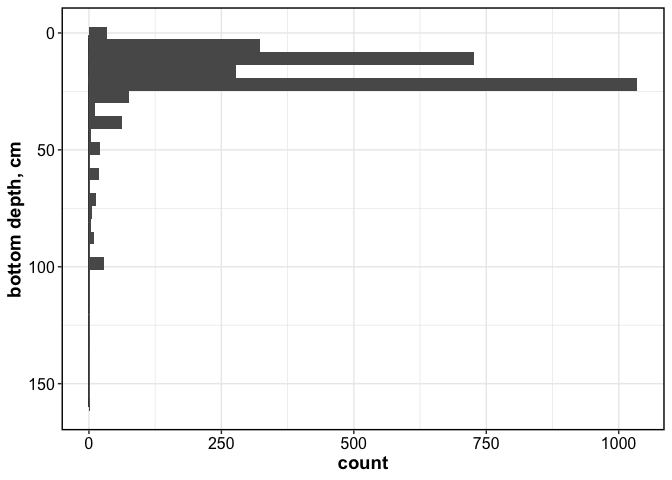
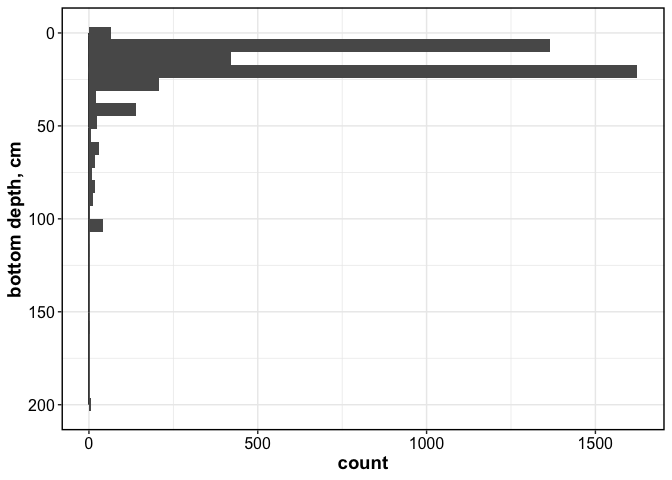
exploratory report - add fraction scheme

diff --git a/4-reports/a-report-exploratory.md b/4-reports/a-report-exploratory.md
@@ -19,7 +19,54 @@ Necromass Database: Exploration
 
 ### Distribution by ecosystem
 
+## fractions
+
+    ##   fraction_scheme
+    ## 1       bulk soil
+    ## 2       aggregate
+    ## 3     rhizosphere
+    ## 4            <NA>
+    ## 5            MAOM
+    ## 6             POM
+
+    ##    aggregate_size
+    ## 1            <NA>
+    ## 2       0.250-2mm
+    ## 3        <0.250mm
+    ## 4    0.002-0.02mm
+    ## 5        <0.002mm
+    ## 6   0.020-0.250mm
+    ## 7            >2mm
+    ## 8   0.053-0.250mm
+    ## 9        <0.053mm
+    ## 10  0.002-0.020mm
+    ## 11  0.063-0.250mm
+    ## 12  0.002-0.250mm
+    ## 13       <0.005mm
+    ## 14      2-0.250mm
+    ## 15  0.250-0.053mm
+    ## 16           >1mm
+    ## 17      0.250-1mm
+    ## 18  0.020-0.002mm
+    ## 19       <0.020mm
+    ## 20          1-2mm
+    ## 21      0.053-8mm
+    ## 22       >0.020mm
+    ## 23      0.250-3mm
+    ## 24      0.250-4mm
+    ## 25      0.250-5mm
+    ## 26       >0.250mm
+    ## 27      0.053-2mm
+    ## 28  0.002-0.053mm
+    ## 29           >3mm
+    ## 30           >4mm
+    ## 31           >5mm
+    ## 32           >6mm
+    ## 33           >7mm
+
 ![](a-report-exploratory_files/figure-gfm/unnamed-chunk-3-1.png)<!-- -->
+
+![](a-report-exploratory_files/figure-gfm/unnamed-chunk-4-1.png)<!-- -->
 
 #### Sample count by depth
 
@@ -28,7 +75,7 @@ Necromass Database: Exploration
 of the 4000+ datapoints, 3454 data points are in the top 20 cm (lyr_btm
 \>= 20)
 
-![](a-report-exploratory_files/figure-gfm/unnamed-chunk-4-1.png)<!-- -->
+![](a-report-exploratory_files/figure-gfm/unnamed-chunk-5-1.png)<!-- -->
 
 ## TABLES
 
@@ -77,11 +124,11 @@ of the 4000+ datapoints, 3454 data points are in the top 20 cm (lyr_btm
 Session Info
 </summary>
 
-Date run: 2026-08-22
+Date run: 2026-09-03
 
     ## R version 4.5.0 (2025-04-11)
     ## Platform: aarch64-apple-darwin20
-    ## Running under: macOS 26.6
+    ## Running under: macOS 26.6.2
     ## 
     ## Matrix products: default
     ## BLAS:   /Library/Frameworks/R.framework/Versions/4.5-arm64/Resources/lib/libRblas.0.dylib 
@@ -120,15 +167,15 @@ Date run: 2026-08-22
     ## [37] rstudioapi_0.17.1    httr_1.4.7           tzdb_0.5.0          
     ## [40] readxl_1.4.5         DBI_1.2.3            proxy_0.4-27        
     ## [43] cellranger_1.1.0     base64enc_0.1-3      vctrs_0.7.1         
-    ## [46] jsonlite_2.0.0       hms_1.1.3            crosstalk_1.2.1     
-    ## [49] ggdist_3.3.3         units_0.8-7          glue_1.8.0          
-    ## [52] codetools_0.2-20     cowplot_1.1.3        distributional_0.5.0
-    ## [55] stringi_1.8.7        gtable_0.3.6         raster_3.6-32       
-    ## [58] pillar_1.10.2        htmltools_0.5.8.1    satellite_1.0.6     
-    ## [61] R6_2.6.1             evaluate_1.0.3       lattice_0.22-6      
-    ## [64] png_0.1-8            gargle_1.5.2         agricolae_1.3-7     
-    ## [67] renv_1.1.7           class_7.3-23         Rcpp_1.1.1          
-    ## [70] nlme_3.1-168         xfun_0.53            fs_1.6.6            
-    ## [73] pkgconfig_2.0.3
+    ## [46] jsonlite_2.0.0       whistledown_0.1.0    hms_1.1.3           
+    ## [49] crosstalk_1.2.1      ggdist_3.3.3         units_0.8-7         
+    ## [52] glue_1.8.0           codetools_0.2-20     cowplot_1.1.3       
+    ## [55] distributional_0.5.0 stringi_1.8.7        gtable_0.3.6        
+    ## [58] raster_3.6-32        pillar_1.10.2        htmltools_0.5.8.1   
+    ## [61] satellite_1.0.6      R6_2.6.1             evaluate_1.0.3      
+    ## [64] lattice_0.22-6       png_0.1-8            gargle_1.5.2        
+    ## [67] agricolae_1.3-7      renv_1.1.7           class_7.3-23        
+    ## [70] Rcpp_1.1.1           nlme_3.1-168         xfun_0.53           
+    ## [73] fs_1.6.6             pkgconfig_2.0.3
 
 </details>
